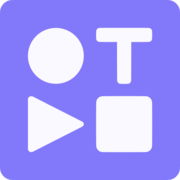
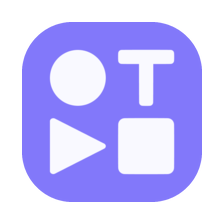
One size for every repo tile, on every client
Repo tiles were served three different ways and so rendered three different
sizes: a product mark on 80% of its canvas (opensession, tella-fusion), a
GitHub org avatar on 62% (every other Tella repo), and a full-bleed service
logo on 100% (plain, slack, posthog). The web papered over one of those with
a per-icon transform; iOS drew them as-is, which is where it showed.

Normalize at the source instead, so no client needs to compensate: every icon
in src/frontend is now drawn with its artwork on ~80% of a square canvas,
corners rounded to match the tile's own clip, and an owner can ship its mark
as owner-<owner>-icon.png for the repos that would otherwise fall through to
a padded org avatar. The web's app-icon trim is gone with it.

Icon URLs carry a version so an installed PWA — and a fresh app build reading
a URLCache that survived the update — repaints instead of waiting out its
cached copy.

Verified against the live server: all 13 ids serve at content ratio 0.805;
the sidebar tiles measure 93-95px of artwork at 4x on desktop and at 414px
wide; iOS renders the same on the simulator. iOS + macOS builds and the
OS1Mac tests pass.

diff --git a/src/server/routes/static-assets.ts b/src/server/routes/static-assets.ts
@@ -45,6 +45,19 @@ async function ownerAvatar(
 	}
 }
 
+/** A tile icon that lives on disk, or undefined when the file isn't there. */
+function localIcon(iconPath: string): Response | undefined {
+	if (!existsSync(iconPath)) return undefined;
+	return new Response(Bun.file(iconPath), {
+		headers: {
+			"Content-Type": "image/png",
+			// These are editable assets: a day-long hard cache pins a redrawn
+			// icon on every client that already fetched it.
+			"Cache-Control": "public, max-age=3600, must-revalidate",
+		},
+	});
+}
+
 export async function handleStaticAssetsRoutes(
 	ctx: RouteContext,
 ): Promise<Response | undefined> {
@@ -94,56 +107,46 @@ export async function handleStaticAssetsRoutes(
 	}
 
 	// Per-repo icons for the RepoTile UI: a repo's configured `icon` PNG when
-	// set, else the repo's GitHub org avatar, fetched server-side and cached.
-	// Unregistered ids 404 — the client falls back to its colored letter tile.
+	// set, else its owner's local mark, else the repo's GitHub org avatar,
+	// fetched server-side and cached. Unregistered ids 404 — the client falls
+	// back to its colored letter tile.
+	//
+	// Every icon served from src/frontend is drawn to the same proportions
+	// (artwork on ~80% of a square canvas, corners rounded to match the tile's
+	// own clip), because nothing downstream can normalize them: the tiles sit
+	// side by side in the sidebar, in the phone app and in the PWA, and a mark
+	// with more built-in padding than its neighbour just reads as a smaller
+	// icon. Keep new icons on those proportions.
 	const repoIcon = path.match(/^\/repo-icon\/([\w.-]+)\.png$/);
 	if (repoIcon && req.method === "GET") {
 		const id = repoIcon[1];
-		// The sidebar's Plain project band (support tickets) wears the Plain
-		// logo — not a repo, but it rides the same RepoTile pipeline.
-		if (id === "plain") {
-			return new Response(Bun.file(`${FRONTEND_SRC}/plain-icon.png`), {
-				headers: {
-					"Content-Type": "image/png",
-					"Cache-Control": "public, max-age=86400",
-				},
-			});
-		}
-		// Feed bands (the feeds design) ride the same tile pipeline:
-		// any `<id>-icon.png` dropped in src/frontend serves generically.
+		// Feed bands (the feeds design) and the Plain project band ride the
+		// same tile pipeline: any `<id>-icon.png` dropped in src/frontend
+		// serves generically.
 		if (/^[a-z0-9][a-z0-9_-]{0,40}$/i.test(id)) {
-			const generic = `${FRONTEND_SRC}/${id}-icon.png`;
-			if (existsSync(generic)) {
-				return new Response(Bun.file(generic), {
-					headers: {
-						"Content-Type": "image/png",
-						// Same short, revalidating cache as a configured repo
-						// icon: these are editable assets, and a day-long hard
-						// cache pins a redrawn icon on every client that
-						// already fetched it.
-						"Cache-Control": "public, max-age=3600, must-revalidate",
-					},
-				});
-			}
+			const generic = localIcon(`${FRONTEND_SRC}/${id}-icon.png`);
+			if (generic) return generic;
 		}
 		// A repo's optional `icon` (absolute path, or relative to its checkout)
-		// overrides the org-avatar default below.
+		// overrides the owner and org-avatar defaults below.
 		const repo = configuredRepos()[id];
 		if (repo?.icon) {
-			const iconPath = repo.icon.startsWith("/")
-				? repo.icon
-				: `${repo.repo}/${repo.icon}`;
-			if (existsSync(iconPath)) {
-				return new Response(Bun.file(iconPath), {
-					headers: {
-						"Content-Type": "image/png",
-						"Cache-Control": "public, max-age=3600, must-revalidate",
-					},
-				});
-			}
+			const configured = localIcon(
+				repo.icon.startsWith("/") ? repo.icon : `${repo.repo}/${repo.icon}`,
+			);
+			if (configured) return configured;
 		}
 		const owner = repo?.ghRepo?.split("/")[0];
 		if (!owner) return new Response("Not found", { status: 404 });
+		// An owner's own mark, as `owner-<owner>-icon.png`. Worth having
+		// because a GitHub avatar is uploaded art with whatever padding its
+		// author chose — tellahq's leaves 38% of its canvas empty — so the
+		// repos that fall through to it would wear tiles that read smaller
+		// than every icon beside them.
+		if (/^[a-z0-9][a-z0-9-]{0,38}$/i.test(owner)) {
+			const ownerIcon = localIcon(`${FRONTEND_SRC}/owner-${owner}-icon.png`);
+			if (ownerIcon) return ownerIcon;
+		}
 		const icon = await ownerAvatar(owner);
 		if (!icon) return new Response("Not found", { status: 404 });
 		return new Response(icon.bytes, {

diff --git a/src/frontend/components/RepoTile.tsx b/src/frontend/components/RepoTile.tsx
@@ -33,17 +33,17 @@ export function repoColor(key: string): string {
 // stable across the rename.
 export { repoLabel } from "../lib/repo-label";
 
-// Repos that ship their own product mark rather than falling back to their
-// GitHub org avatar. Those marks are drawn to app-icon proportions (artwork
-// on ~80% of the canvas), so they take the trim below to sit at the same size
-// as the avatars beside them.
-const APP_ICON_REPOS = new Set(["opensession", "tella-fusion"]);
+// Bumped when the icons behind /repo-icon/<id>.png are redrawn: the response
+// is cacheable, so without a new URL an installed PWA keeps painting the old
+// art until its copy expires.
+const ICON_VERSION = 2;
 
 // A repo's icon tile (sidebar Repo dropdown, session-header breadcrumb, repo
-// menus): the server's /repo-icon/<id>.png — the repo's GitHub org avatar,
-// with the repos in APP_ICON_REPOS wearing their own product icon — falling
-// back to the colored letter tile when no icon resolves (unregistered/local
-// repos). `size` (px)
+// menus): the server's /repo-icon/<id>.png — a product mark where the repo or
+// its owner ships one, else the repo's GitHub org avatar — falling back to the
+// colored letter tile when no icon resolves (unregistered/local repos). Every
+// icon arrives drawn to the same proportions (see the route), so the tile
+// scales them all identically. `size` (px)
 // shrinks it for tight spots like the phone header's model line; omitted =
 // the 18px default. `round` makes it a full circle (e.g. the phone title
 // pill, where it sits against the pill's own rounding).
@@ -69,12 +69,9 @@ export function RepoTile({
 	}
 	if (failedFor !== name) {
 		return (
-			<span
-				className={`repo-tile repo-tile--img${APP_ICON_REPOS.has(name) ? " repo-tile--app-icon" : ""}`}
-				style={style}
-			>
+			<span className="repo-tile repo-tile--img" style={style}>
 				<img
-					src={`/repo-icon/${encodeURIComponent(name)}.png`}
+					src={`/repo-icon/${encodeURIComponent(name)}.png?v=${ICON_VERSION}`}
 					alt=""
 					loading="lazy"
 					onError={() => setFailedFor(name)}

diff --git a/src/frontend/styles/global.css b/src/frontend/styles/global.css
@@ -1453,9 +1453,11 @@ body:is(.resizing-sidebar, .resizing-panel) {
 	color: #fff;
 	flex-shrink: 0;
 }
-/* Image variant: /repo-icon/<id>.png (GitHub org avatar; a product app icon
-   for repos that ship one). The img fills the tile and inherits its rounding;
-   no colored backing so icons with transparency sit on the surface itself. */
+/* Image variant: /repo-icon/<id>.png (a product mark where the repo or its
+   owner ships one, else the GitHub org avatar). The img fills the tile and
+   inherits its rounding; no colored backing so icons with transparency sit on
+   the surface itself. Every icon the route serves is drawn to the same
+   proportions, so no per-icon trim is needed here. */
 .repo-tile--img {
 	background: none;
 }
@@ -1465,18 +1467,6 @@ body:is(.resizing-sidebar, .resizing-panel) {
 	object-fit: cover;
 	border-radius: inherit;
 }
-.repo-tile--app-icon img {
-	/* An app icon spends 80% of its canvas on artwork where a GitHub avatar
-	   spends 62%, so it needs trimming to sit at the same size — but matching
-	   those areas exactly (scale 0.78) left the OS1 icon reading noticeably
-	   smaller than the saturated avatars beside it. It's a black-and-white
-	   plate with a generous corner radius: on either theme one half sinks into
-	   the panel, and the rounder silhouette costs it more area still. Trim it
-	   less so the two read the same weight rather than measure the same, and
-	   keep every app icon on the same trim so they match each other. */
-	transform: scale(0.9);
-}
-
 .sidebar-list {
 	flex: none;
 	overflow-y: visible;

diff --git a/os1-ios/OS1/Views/OS1VisualStyle.swift b/os1-ios/OS1/Views/OS1VisualStyle.swift
@@ -115,10 +115,18 @@ struct RepoTile: View {
 
     private var iconURL: URL? { Self.iconURL(for: name) }
 
+    /// Bumped when the icons behind /repo-icon are redrawn — keep it in step
+    /// with ICON_VERSION in the web tile. The response is cacheable and
+    /// URLCache survives an app update, so without a new URL a freshly
+    /// installed build would keep painting the art the old one cached.
+    private static let iconVersion = 2
+
     private static func iconURL(for name: String) -> URL? {
-        ServerConfig.shared.baseURL?
+        var url = ServerConfig.shared.baseURL?
             .appendingPathComponent("repo-icon")
             .appendingPathComponent("\(name).png")
+        url?.append(queryItems: [URLQueryItem(name: "v", value: "\(iconVersion)")])
+        return url
     }
 
     /// The icon on its own, for the one place that can't host the tile: a menu
